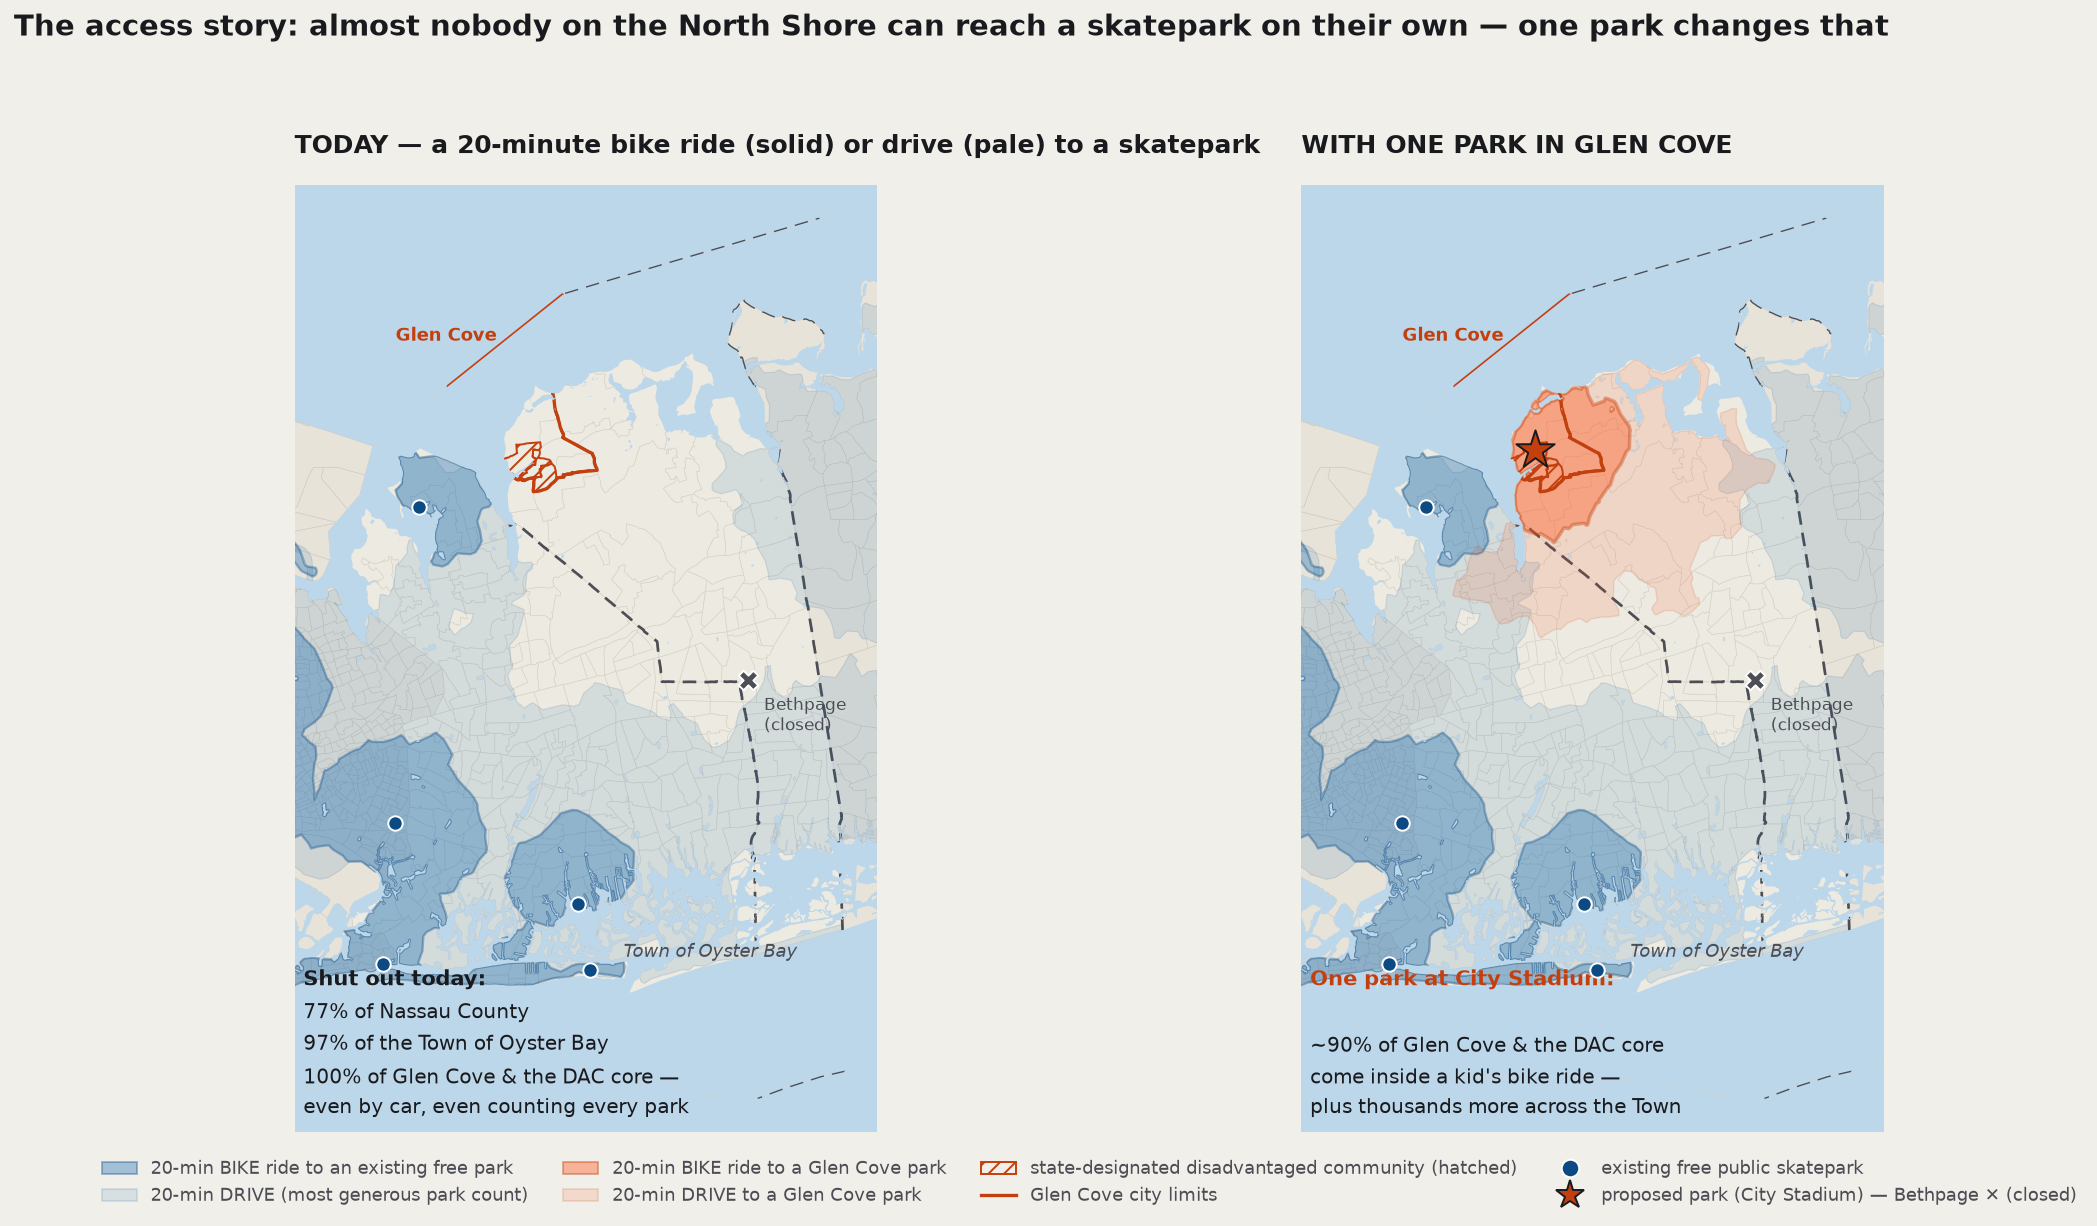
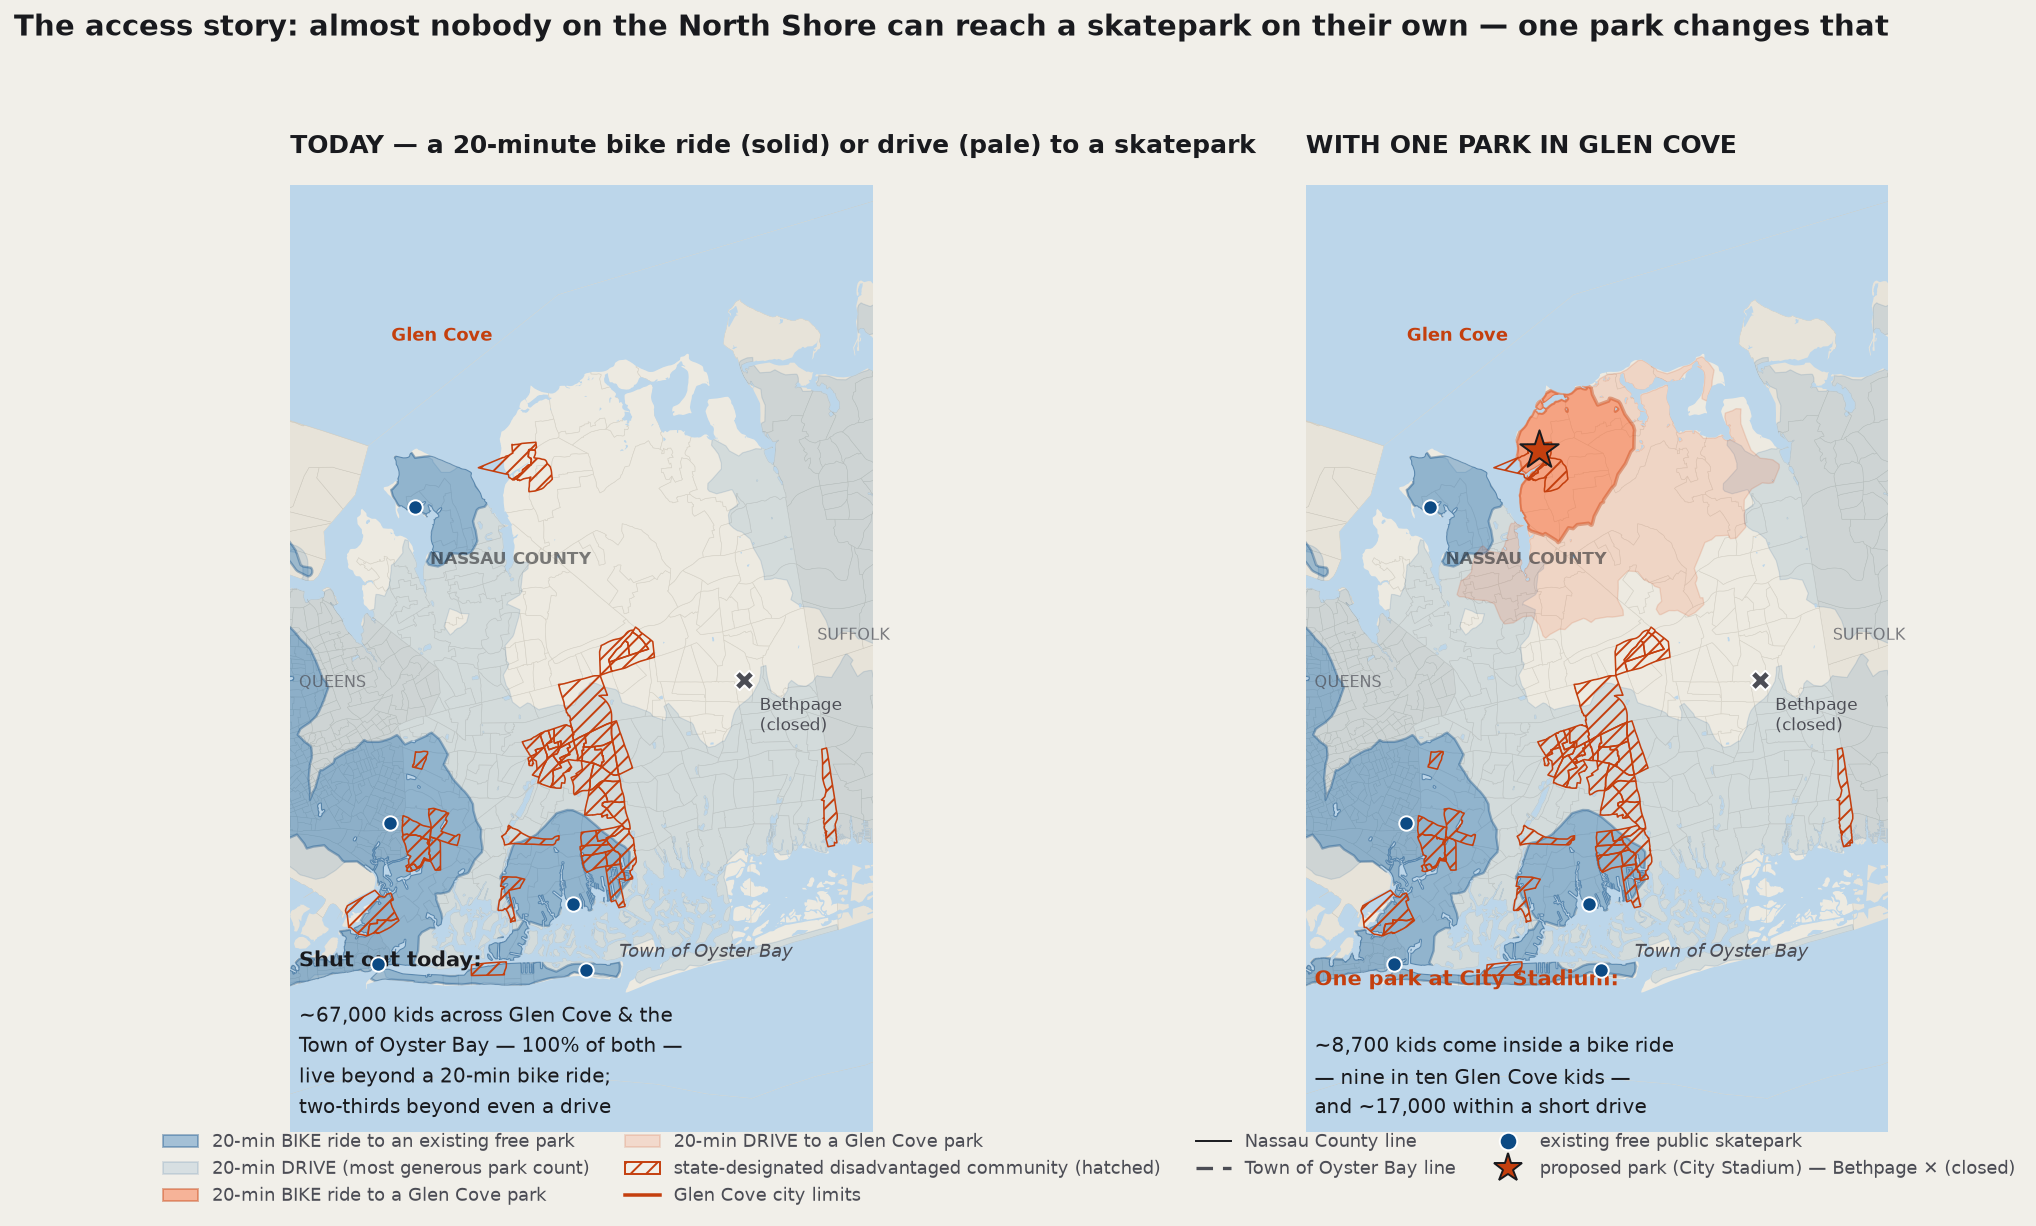
Map: all 44 Nassau DACs hatched, clear boundaries; access prose simplified (#34)
(Rebased onto current main to drop the already-merged #33 commit.)

- DAC acknowledgment from the official Final-2023 dataset (data.ny.gov
  2e6c-s6fp; 44 Nassau tracts, ~227K people; geometries banked +
  auto-fetched): ALL hatched on both panels. Nassau's DACs cluster on
  the south shore — Glen Cove's is the ONLY North Shore DAC; TOB has
  exactly one (East Massapequa). The dataset's 2010-vintage Glen Cove
  tracts map exactly onto our set — independent confirmation (dossier
  §3, tracker).
- Boundaries: Glen Cove limits clipped to shoreline; TOB dash clipped +
  bolder; Nassau County line + QUEENS/SUFFOLK/NASSAU labels; legend
  entries added.
- Access paragraph simplified per review with verified corrections
  (~58K spans the whole city+town; "our park + Bethpage leaves all but
  ~4,000 of 67,000 kids within a drive", computed 3,975); map stat
  blocks harmonized to the kid frame.

Claude-Session: https://claude.ai/code/session_01R9CAJDZFUS7VyoncJkuQwx

diff --git a/skate-park/analysis/regenerate_maps.py b/skate-park/analysis/regenerate_maps.py
@@ -47,7 +47,9 @@ def gc_catchment():
     cs=gpd.read_file("tl_2023_36_cousub.shp").to_crs(32618)
     toob=cs[(cs.COUNTYFP=="059")&(cs.NAME.str.contains("Oyster Bay"))]
     gc_city=gpd.read_file("tl_2023_36_place.shp").to_crs(32618); gc_city=gc_city[gc_city.NAME=="Glen Cove"]
-    dac=na[na.GEOID.isin(["36059517201","36059517202","36059517101"])]
+    if not os.path.exists("data/dac_nassau_2023.geojson"):
+        urllib.request.urlretrieve("https://data.ny.gov/resource/2e6c-s6fp.geojson?$select=the_geom,geoid,city_town&$where=county='Nassau' AND dac_designation='Designated as DAC'&$limit=60".replace(" ","%20"),"data/dac_nassau_2023.geojson")
+    dac=gpd.read_file("data/dac_nassau_2023.geojson").to_crs(32618)  # ALL 44 Nassau DAC tracts (Final 2023)
     bike=gpd.read_file("data/gc_bike.gpkg"); car=gpd.read_file("data/gc_iso.gpkg")
     GC=gpd.GeoSeries([Point(-73.6389,40.8685)],crs=4326).to_crs(32618)
     fig,ax=plt.subplots(figsize=(11,10),dpi=145)
@@ -98,7 +100,9 @@ def access_story():
     cs=gpd.read_file("tl_2023_36_cousub.shp").to_crs(32618)
     toob=cs[(cs.COUNTYFP=="059")&(cs.NAME.str.contains("Oyster Bay"))]
     gc=gpd.read_file("tl_2023_36_place.shp").to_crs(32618); gc=gc[gc.NAME=="Glen Cove"]
-    dac=na[na.GEOID.isin(["36059517201","36059517202","36059517101"])]
+    if not os.path.exists("data/dac_nassau_2023.geojson"):
+        urllib.request.urlretrieve("https://data.ny.gov/resource/2e6c-s6fp.geojson?$select=the_geom,geoid,city_town&$where=county='Nassau' AND dac_designation='Designated as DAC'&$limit=60".replace(" ","%20"),"data/dac_nassau_2023.geojson")
+    dac=gpd.read_file("data/dac_nassau_2023.geojson").to_crs(32618)  # ALL 44 Nassau DAC tracts (Final 2023)
     bike=gpd.read_file("data/bike_today.gpkg").to_crs(32618)
     car=gpd.read_file("data/covA.gpkg").to_crs(32618)
     excl=[(-73.3649,40.8625),(-73.3113,40.8822),(-73.3978,40.6579),(-72.5356,40.8873)]
@@ -135,21 +139,26 @@ def access_story():
         su.plot(ax=ax,color="#E7E3D9",edgecolor="#cfc9bc",linewidth=.25)
         na.plot(ax=ax,color="#EDEAE1",edgecolor="#d8d3c7",linewidth=.3)
         waterdf.plot(ax=ax,color=WATER,edgecolor="none",zorder=2)
-        toob.plot(ax=ax,color="none",edgecolor=SOFT,linewidth=1.4,linestyle=(0,(5,3)))
+        gpd.GeoSeries([unary_union(na.geometry.values).intersection(land)],crs=32618).boundary.plot(ax=ax,color=INK,linewidth=1.0,zorder=4)
+        gpd.GeoSeries([unary_union(toob.geometry.values).intersection(land)],crs=32618).boundary.plot(ax=ax,color=SOFT,linewidth=1.7,linestyle=(0,(5,3)),zorder=4)
         car.plot(ax=ax,color=POOL,alpha=.12,edgecolor=POOLD,linewidth=.6)
         bike.plot(ax=ax,color=POOL,alpha=.36,edgecolor=POOLD,linewidth=1.2)
         if i==1:
             gcc.plot(ax=ax,color=SPARK,alpha=.14,edgecolor=SPARKD,linewidth=.7)
             gcb.plot(ax=ax,color=SPARK,alpha=.40,edgecolor=SPARKD,linewidth=1.8)
             mac.plot(ax=ax,color=SPARKD,marker="*",markersize=430,edgecolor=INK,zorder=9)
-        gc.plot(ax=ax,color="none",edgecolor=SPARKD,linewidth=1.7)
-        dac.plot(ax=ax,facecolor="none",edgecolor=SPARKD,linewidth=1.0,hatch="///")
+        gpd.GeoSeries([unary_union(gc.geometry.values).intersection(land)],crs=32618).boundary.plot(ax=ax,color=SPARKD,linewidth=1.8,zorder=5)
+        dac.plot(ax=ax,facecolor="none",edgecolor=SPARKD,linewidth=.8,hatch="///",zorder=3)
         pk.plot(ax=ax,color=POOLD,markersize=55,edgecolor="white",linewidth=1,zorder=8)
         ax.scatter(beth.x,beth.y,marker="X",s=100,color=SOFT,edgecolor="white",linewidth=1,zorder=8)
         ax.annotate("Bethpage\n(closed)",xy=(float(beth.x.iloc[0]),float(beth.y.iloc[0])),
                     xytext=(8,-26),textcoords="offset points",fontsize=8.5,color=SOFT)
         ax.annotate("Town of Oyster Bay",xy=(.565,.185),xycoords="axes fraction",
                     fontsize=9,color=SOFT,style="italic")
+        ax.annotate("NASSAU COUNTY",xy=(.24,.60),xycoords="axes fraction",fontsize=8.5,
+                    color=INK,alpha=.55,fontweight="bold")
+        ax.annotate("QUEENS",xy=(.015,.47),xycoords="axes fraction",fontsize=8,color=SOFT,alpha=.7)
+        ax.annotate("SUFFOLK",xy=(.905,.52),xycoords="axes fraction",fontsize=8,color=SOFT,alpha=.7)
         ax.annotate("Glen Cove",xy=(float(gc.geometry.centroid.x.iloc[0]),
                     float(gc.geometry.centroid.y.iloc[0])),xytext=(-64,34),
                     textcoords="offset points",fontsize=9,color=SPARKD,fontweight="bold")
@@ -158,16 +167,16 @@ def access_story():
     A.set_title("TODAY — a 20-minute bike ride (solid) or drive (pale) to a skatepark",
                 loc="left",fontsize=13,fontweight="bold",color=INK)
     B.set_title("WITH ONE PARK IN GLEN COVE",loc="left",fontsize=13,fontweight="bold",color=INK)
-    A.text(.015,.155,"Shut out today:",transform=A.transAxes,fontsize=11,
+    A.text(.015,.175,"Shut out today:",transform=A.transAxes,fontsize=11,
            color=INK,fontweight="bold")
-    A.text(.015,.02,"77% of Nassau County\n97% of the Town of Oyster Bay\n"
-           "100% of Glen Cove & the DAC core —\neven by car, even counting every park",transform=A.transAxes,fontsize=10.5,
-           color=INK,linespacing=1.55)
+    A.text(.015,.02,"~67,000 kids across Glen Cove & the\nTown of Oyster Bay — 100% of both —\n"
+           "live beyond a 20-min bike ride;\ntwo-thirds beyond even a drive",transform=A.transAxes,
+           fontsize=10.5,color=INK,linespacing=1.5)
     B.text(.015,.155,"One park at City Stadium:",transform=B.transAxes,fontsize=11,
            color=SPARKD,fontweight="bold")
-    B.text(.015,.02,"~90% of Glen Cove & the DAC core\ncome inside a kid's bike ride —\n"
-           "plus thousands more across the Town",transform=B.transAxes,fontsize=10.5,
-           color=INK,linespacing=1.55)
+    B.text(.015,.02,"~8,700 kids come inside a bike ride\n— nine in ten Glen Cove kids —\n"
+           "and ~17,000 within a short drive",transform=B.transAxes,fontsize=10.5,
+           color=INK,linespacing=1.5)
     import matplotlib.patches as mpatches
     import matplotlib.lines as mlines
     handles=[mpatches.Patch(facecolor=POOL,alpha=.36,edgecolor=POOLD,label="20-min BIKE ride to an existing free park"),
@@ -175,7 +184,9 @@ def access_story():
              mpatches.Patch(facecolor=SPARK,alpha=.40,edgecolor=SPARKD,label="20-min BIKE ride to a Glen Cove park"),
              mpatches.Patch(facecolor=SPARK,alpha=.14,edgecolor=SPARKD,label="20-min DRIVE to a Glen Cove park"),
              mpatches.Patch(facecolor="none",edgecolor=SPARKD,hatch="///",label="state-designated disadvantaged community (hatched)"),
-             mlines.Line2D([],[],color=SPARKD,linewidth=1.7,label="Glen Cove city limits"),
+             mlines.Line2D([],[],color=SPARKD,linewidth=1.8,label="Glen Cove city limits"),
+             mlines.Line2D([],[],color=INK,linewidth=1.0,label="Nassau County line"),
+             mlines.Line2D([],[],color=SOFT,linewidth=1.7,linestyle=(0,(5,3)),label="Town of Oyster Bay line"),
              mlines.Line2D([],[],marker="o",color="none",markerfacecolor=POOLD,markeredgecolor="white",markersize=9,label="existing free public skatepark"),
              mlines.Line2D([],[],marker="*",color="none",markerfacecolor=SPARKD,markeredgecolor=INK,markersize=15,label="proposed park (City Stadium) — Bethpage ✕ (closed)")]
     fig.legend(handles=handles,loc="lower center",ncol=4,frameon=False,fontsize=9,